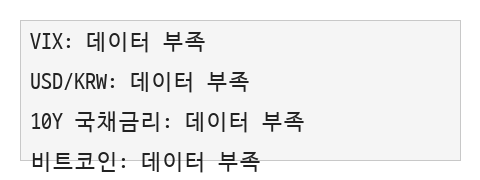
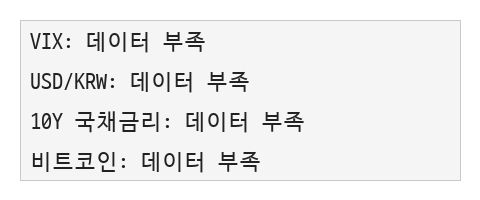
자동 업데이트: 주요 실시간 지표

diff --git a/real_time_indicators_generate.py b/real_time_indicators_generate.py
@@ -1,0 +1,88 @@
+from datetime import datetime
+from PIL import Image, ImageDraw, ImageFont
+import yfinance as yf
+import time
+import os
+
+# === 실시간 지표 설정 ===
+symbols = {
+    "VIX": "^VIX",
+    "USD/KRW": "KRW=X",
+    "10Y 국채금리": "^TNX",
+    "비트코인": "BTC-USD"
+}
+
+# === 데이터 다운로드 함수 (재시도 포함) ===
+def download_recent_2(ticker, max_retries=5):
+    wait_times = [3, 5, 10, 15, 20]
+    for attempt in range(max_retries):
+        try:
+            print(f"📡 {ticker} 데이터 다운로드 시도 {attempt + 1}/{max_retries}")
+            df = yf.download(ticker, period="2d", interval="1d", progress=False)["Close"]
+            if df.dropna().empty:
+                raise ValueError("❌ 데이터 없음")
+            return df
+        except Exception as e:
+            print(f"⚠ 실패: {e}")
+            if attempt < max_retries - 1:
+                time.sleep(wait_times[attempt])
+            else:
+                return None
+
+# === 지표 요약 구성 ===
+formatted = []
+for label, ticker in symbols.items():
+    time.sleep(2)  # Rate limit 우회
+    df = download_recent_2(ticker)
+    if df is None or df.shape[0] < 2:
+        formatted.append(f"{label}: 데이터 부족")
+    else:
+        today, prev = df.iloc[-1], df.iloc[-2]
+        diff = today - prev
+        pct = diff / prev * 100
+        sign = "▲" if diff > 0 else "▼"
+        if "USD" in label or "비트코인" in label:
+            formatted.append(f"{label}: ${today:,.2f} ({sign}{abs(pct):.2f}%)")
+        elif "국채" in label:
+            formatted.append(f"{label}: {today:.2f}% ({sign}{abs(pct):.2f}%)")
+        else:
+            formatted.append(f"{label}: {today:,.2f} ({sign}{abs(pct):.2f}%)")
+
+# === 이미지 설정 ===
+width = 480
+line_height = 40
+height = 40 + len(formatted) * line_height
+img = Image.new("RGB", (width, height), color=(255, 255, 255))
+draw = ImageDraw.Draw(img)
+
+# === 박스 배경 추가 ===
+box_margin = 20
+box_x0 = box_margin
+box_y0 = box_margin
+box_x1 = width - box_margin
+box_y1 = height - box_margin
+draw.rectangle([box_x0, box_y0, box_x1, box_y1], fill=(245, 245, 245), outline=(200, 200, 200))
+
+# === 폰트 설정 ===
+font_path = "C:/gitupload/ttf/D2Coding-Ver1.3.2-20180524.ttf"
+font = ImageFont.truetype(font_path, 22)
+text_color = (34, 34, 34)
+
+# === 텍스트 출력 ===
+y = box_y0 + 10
+for line in formatted:
+    draw.text((box_x0 + 10, y), line, font=font, fill=text_color)
+    y += line_height
+
+# === 이미지 저장 ===
+output_path = "C:/gitupload/market_indicators_white_bg.png"
+img.save(output_path)
+print(f"✅ 이미지 저장 완료: {output_path}")
+
+# === GitHub 업로드 ===
+os.chdir("C:/gitupload")
+os.system("git add market_indicators_white_bg.png")
+os.system("git add real_time_indicators_generate.py")
+os.system("git commit -m \"자동 업데이트: 주요 실시간 지표\"")
+os.system("git push origin main")
+print("✅ GitHub 업로드 완료")
